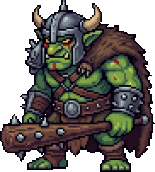
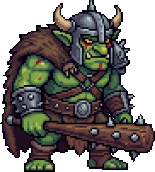
game-126 EMBERSPIRE v1.0.4: battle toggles keep their clicks; three sprites face the right way
The battle panel re-rendered on every turn start and animation end and
rebuilt the Auto / Climb / speed buttons each time, so a click whose
press and release straddled a re-render was lost (Auto wouldn't switch
off during enemy turns, 3x couldn't be clicked back to 1x). The toggle
row is now built once and relabelled. Browser test presses across a
re-render; fails without the fix.

Grubnak, Celestine and Thorne had been mirrored the wrong way in v1.0.0;
un-mirrored, every sprite rechecked at full size, FLIP is per sprite.

Claude-Session: https://claude.ai/code/session_01ScowixptJesxmHS1NHYaL5

diff --git a/game-126/js/ui.js b/game-126/js/ui.js
@@ -624,31 +624,48 @@ export class UI {
         this.G = G;
         const B = G.battle;
         const cmds = $('cmds');
-        cmds.replaceChildren();
         $('floor-tag').textContent = B ? `Floor ${B.floor} · ${biomeOf(B.floor).cycle ? 'Ascended ' : ''}${biomeOf(B.floor).biome.name} · ${fmt(G.gold)}g` : '';
-        if (!B) return;
+        if (!B) { cmds.replaceChildren(); return; }
         const busy = stage.busy || G.events.length > 0;
         const u = B.turn ? bunit(B, B.turn) : null;
-        const toggles = h('div.cmd-row', {},
-            h('button.btn.toggle' + (G.auto ? '.on' : ''), { 'data-k': 'auto', on: { click: () => this.send({ t: 'auto', on: !G.auto }) } }, `Auto ${G.auto ? 'ON' : 'off'}`),
-            h('button.btn.toggle' + (G.autoClimb ? '.on' : ''), { 'data-k': 'climb', title: 'Keep climbing after each victory while the party is healthy', on: { click: () => this.send({ t: 'autoClimb', on: !G.autoClimb }) } }, `Climb ${G.autoClimb ? 'ON' : 'off'}`),
-            h('button.btn', { 'data-k': 'speed', title: 'Battle speed', on: { click: () => this.cycleSpeed() } }, `${this.settings.speed}x`),
-            h('button.btn', { 'data-k': 'menu', 'aria-label': 'Menu', on: { click: () => { this.audio.ui('click'); this.openScreen('settings'); } } }, '☰'));
+        // The toggle row is built once and only relabelled. The panel re-renders every time a turn starts or an
+        // animation ends (many times a second at 3x); rebuilding these buttons then swallowed clicks that landed
+        // between press and release, so Auto, Climb and the speed seemed not to respond.
+        const t = this.toggleRow();
+        const set = (btn, on, label) => { btn.classList.toggle('on', on); btn.setAttribute('aria-pressed', String(on)); if (btn.textContent !== label) btn.textContent = label; };
+        set(t.auto, G.auto, `Auto ${G.auto ? 'ON' : 'off'}`);
+        set(t.climb, G.autoClimb, `Climb ${G.autoClimb ? 'ON' : 'off'}`);
+        if (t.speed.textContent !== `${this.settings.speed}x`) t.speed.textContent = `${this.settings.speed}x`;
+        let body;
         if (B.phase === 'input' && !busy && u && u.side === 'p') {
             stage.turn = u.uid;
-            cmds.append(this.commandMenu(G, u, stage));
+            body = this.commandMenu(G, u, stage);
         } else {
             stage.setPick(null);
             let msg = 'The battle is over.';
             if (B.phase === 'ai') msg = u && u.side === 'e' ? `${u.name} acts…` : `${u?.name ?? ''} acts on their own (auto)…`;
             else if (busy) msg = '…';
-            cmds.append(h('div.cmd-who', { text: msg }));
+            body = h('div.cmd-who', { text: msg });
         }
-        cmds.append(toggles);
+        // swap only the part above the toggles; the toggle row stays the same element
+        for (const el of [...cmds.children]) if (el !== t.row) el.remove();
+        cmds.prepend(body);
+        if (t.row.parentNode !== cmds) cmds.append(t.row);
         if (this.top() === null || this.top() === 'battle') {
             // keep keyboard focus inside the command window
             if (!cmds.contains(document.activeElement)) cmds.querySelector('button:not(:disabled)')?.focus({ preventScroll: true });
         }
+    }
+
+    /** Auto / Climb / speed / menu: one set of buttons for the whole session (see renderBattle). */
+    toggleRow() {
+        if (this._toggles) return this._toggles;
+        const auto = h('button.btn.toggle', { 'data-k': 'auto', on: { click: () => this.send({ t: 'auto', on: !this.G.auto }) } });
+        const climb = h('button.btn.toggle', { 'data-k': 'climb', title: 'Keep climbing after each victory while the party is healthy', on: { click: () => this.send({ t: 'autoClimb', on: !this.G.autoClimb }) } });
+        const speed = h('button.btn', { 'data-k': 'speed', title: 'Battle speed', on: { click: () => this.cycleSpeed() } });
+        const menu = h('button.btn', { 'data-k': 'menu', 'aria-label': 'Menu', on: { click: () => { this.audio.ui('click'); this.openScreen('settings'); } } }, '☰');
+        this._toggles = { row: h('div.cmd-row', {}, auto, climb, speed, menu), auto, climb, speed };
+        return this._toggles;
     }
 
     cycleSpeed() {

diff --git a/js/gamedata.js b/js/gamedata.js
@@ -1927,7 +1927,7 @@ const games = [
         description: "A 16-bit endless tower RPG with painted pixel art generated with fal and music, sound and voices generated with ElevenLabs. A black tower rose over the town of Hearthmere thirty years ago and nobody has seen its top. Climb it a floor at a time in side-view turn-based battles (charge-time turns, elements and weaknesses, poison, stun, haste and barriers, auto battle and auto-climb) against seventy kinds of monster across ten strata, from the Mossy Undercroft to the Skyreach Summit, with a mini boss every 5th floor and a true boss every 10th; past floor 100 the strata return Ascended and the climb never ends. Between climbs: recruit nine heroes at the tavern, evolve each into one of two advanced classes and ascend them, learn 108 skills, upgrade and reforge your gear and hunt sixteen uniques, take daily bounties at the guild, spend each evening with a companion in forty bond scenes (some of them romances) and claim a daily bonus and the town's idle tithe while you're away. Keyboard, gamepad or touch.",
         icon: '🗼',
         folder: 'game-126',
-        version: '1.0.3',
+        version: '1.0.4',
         cssClass: 'emberspire',
         genre: 'rpg',
         tags: [

diff --git a/game-126/js/config.js b/game-126/js/config.js
@@ -1,6 +1,6 @@
 // EMBERSPIRE — tuning and constants. Shared by the sim, the view and the tests.
 
-export const VERSION = '1.0.3';
+export const VERSION = '1.0.4';
 export const SAVE_KEY = 'emberspire.v1';
 
 export const STEP = 1 / 60;               // fixed step for pacing the battle (s)

diff --git a/game-126/dev/art/export.py b/game-126/dev/art/export.py
@@ -44,7 +44,10 @@ BGS_TOWN = ['town', 'tavern', 'tavern-night', 'smithy', 'shop', 'guild', 'temple
 CROP_BOTTOM = {'garden': 0.11}
 # The model didn't always draw the facing it was asked for. Heroes stand on the right and must face left;
 # monsters stand on the left and must face right. These were checked by eye on a contact sheet and are mirrored.
-FLIP = {'arin', 'grimble', 'lyra', 'pip', 'thorne', 'celestine', 'grubnak'}
+# sprites the model drew facing the wrong way (monsters face right, toward the party; heroes face left).
+# Judge at full size: at thumbnail size a three-quarter view is easy to misread (v1.0.4 un-mirrored grubnak,
+# celestine and thorne, which v1.0.0 had mirrored the wrong way).
+FLIP = {'arin', 'arin-evo', 'grimble', 'grimble-evo', 'lyra', 'lyra-evo', 'pip', 'pip-evo', 'thorne-evo'}
 ICON_SHEETS = ['gear', 'goods', 'uniques', 'misc']
 
 # longest side, in game pixels (the battle canvas is 640x360)
@@ -237,7 +240,7 @@ def main(raw):
             if not have(f):
                 print('missing', f); continue
             sp = trim(cutout(Image.open(os.path.join(raw, f))))
-            if h in FLIP: sp = sp.transpose(Image.FLIP_LEFT_RIGHT)
+            if (h if pre == 'spr' else h + '-evo') in FLIP: sp = sp.transpose(Image.FLIP_LEFT_RIGHT)
             # heroes are scaled by height so a halfling stays shorter than a half-orc
             tall = {'pip': 0.78, 'grimble': 0.86}.get(h, 1.0)
             s = SIZE['hero'] * tall / sp.height

diff --git a/status.md b/status.md
@@ -130,7 +130,7 @@ Completion audit of all games in this repo, based on each game's own game-plan.m
 | [game-123](game-123/index.html) | Atlas of Ink | **Solid** | v1.0.0. A cartographer's commission game in Canvas 2D with no asset files, in the sim/view layout. A pure seeded sim ([js/sim/](game-123/js/sim/)): a 72 × 44 island ([world.js](game-123/js/sim/world.js): value-noise elevation, biomes, rivers traced downhill, features, reefs placed on every harbour-to-harbour lane and checked so a lane remains), a hold-to-focus scrying spell ([game.js](game-123/js/sim/game.js): focus builds standing still and bleeds moving, sets radius and error, features need focus ≥ 0.35, ink is only overwritten by an equally steady cast), and six clients ([commission.js](game-123/js/sim/commission.js)) who use the chart for real: A\* over the player's map walked on the true terrain for the adventurer and the ship, F1 of plains for the farmer, finds for the prospector and pilgrim, accuracy for the king. The view ([view.js](game-123/js/view/view.js)) bakes parchment and ink layers (watercolour washes, symbols, inked coasts, pale unsure ink), draws icons, a feather quill with a focus ring and the client's journey, and follows the quill on phones. The title screen charts a map by itself with the bot. [simtest.mjs](game-123/dev/simtest.mjs) (purity, worlds over many seeds, every spell rule, every commission solvable and judged as described, round trips mid-cast and on a result, bots at three skill levels) and [browsertest.mjs](game-123/dev/browsertest.mjs) (desktop through a whole season with real keys, two touch-only phones with a second finger holding SCRY, blocked storage). Open: clocks and difficulty were tuned by a bot that sweeps everything, so the prospector and pilgrim are easy for it; the game has only run in headless Chromium and has not been played on a real phone; there is no mouse control |
 | [game-124](game-124/index.html) | Wrack & Wonder | **Solid** | v1.0.0. A first-person survival and research adventure in three.js r165 with seeded laws of magic, research instruments, a notebook that records only evidence, survival, Nib, three standing stones and a curse-breaking journey to free Elowen. [simtest.mjs](game-124/dev/simtest.mjs) checks 60 seeds, every gate, rule and puzzle, and a bot that frees Elowen; [browsertest.mjs](game-124/dev/browsertest.mjs) covers desktop, two touch-only phones, save/continue and blocked storage. Open: balance was tuned by a bot; only run under SwiftShader; not yet played on a real phone or GPU |
 | [game-125](game-125/index.html) | SEEDFALL | **Solid** | v1.0.1. TILLY now always faces you (billboards turn from their world position). A narrative first-person HD-2D sci-fi adventure in three.js r165 with idle terraforming, in the sim/view layout. A pure sim ([js/sim/](game-125/js/sim/)): a walkable crew deck ([layout.js](game-125/js/sim/layout.js)), a year clock that runs research, vats, harvesters and colonies on game days ([station.js](game-125/js/sim/station.js)), first-person bot drops onto six seeded zones whose creatures, hazards and plants follow how far each zone has been terraformed ([zonegen.js](game-125/js/sim/zonegen.js), [mission.js](game-125/js/sim/mission.js)), 23 genomes blended into strains scored against each zone's niche ([genetics.js](game-125/js/sim/genetics.js)), six bot generations, 25 research projects, VESPER's five black boxes, the Rootmother and a Purge/Concord choice, four endings, and a story told by TILLY in plain-data scenes ([story.js](game-125/js/sim/story.js)). The view draws every sprite with game-093's pixel painter as lit billboards under bloom, tilt-shift and a grade; the station's walls come from the same layout the sim walks. The DOM layer adds painted art generated with fal ([art/](game-125/art/README.md)): title key art, TILLY in five moods, VESPER, six zone cards and four ending illustrations. [simtest.mjs](game-125/dev/simtest.mjs) (purity, data reachability, a flood fill of the deck, every rule and ending, 360 zones proved reachable, round trips mid-mission and mid-sentence, a fuzz the bot must finish from, whole bot years) and [browsertest.mjs](game-125/dev/browsertest.mjs) (desktop with real keys through a whole loop and the ending, two touch-only phones, blocked storage, pixels read back). Open: balance was tuned by a bot whose clumsy and perfect versions finish within a few weeks of each other, so the clock may bite a person much harder; combat is simple; only run under SwiftShader, not yet played on a real phone or GPU |
-| [game-126](game-126/index.html) | EMBERSPIRE | **Solid** | v1.0.3. Town greetings play by themselves on the first 3 visits, then on a 🔊 by the portrait (a saved setting); v1.0.2: with Auto battle on, victory counts down 10 s and climbs on, never into a mini boss or boss; v1.0.1 put fighters on the floor. A 16-bit endless tower RPG in Canvas 2D and DOM, in the sim/view layout with a turn-based `act()` sim. A pure sim ([js/sim/](game-126/js/sim/)): charge-time turn-based battles with elements, statuses, boss enrage, auto battle and auto-climb ([battle.js](game-126/js/sim/battle.js)); an endless tower of ten strata with 70 monster designs, a mini boss every 5th floor and a boss every 10th, Ascended past 100 ([biomes.js](game-126/js/sim/data/biomes.js)); nine heroes, 27 classes, 108 skills, evolution and ascension ([heroes.js](game-126/js/sim/data/heroes.js)); gear with rarities, affixes, upgrades, reforging, 16 uniques and 8 keepsakes; the tavern, forge, market, guild, temple and treasury; 40 bond scenes; daily bounties and milestones; daily bonus, blessings, idle tithe and errands from real time passed in as numbers ([game.js](game-126/js/sim/game.js)). Art: 93 fal images cut out and downscaled to their native pixel grid ([dev/art/](game-126/dev/art/README.md)); audio: six music themes, 14 effects and 34 voice lines from ElevenLabs with a Web Audio synth fallback ([dev/audio/](game-126/dev/audio/README.md)). [simtest.mjs](game-126/dev/simtest.mjs) (880 checks: purity, art for every entity, every floor to 300, every rule, determinism and mid-battle round trips, a whole-game bot at two diligence levels with balance bands) and [browsertest.mjs](game-126/dev/browsertest.mjs) (desktop with real keys through a climb, an evening and a save, the generated audio playing, two touch-only phones, blocked storage). Open: balance was tuned by a bot and past floor 70 is extrapolated; not yet played by a person or on a real phone; voice-line cuts checked by length, not by ear |
+| [game-126](game-126/index.html) | EMBERSPIRE | **Solid** | v1.0.4. Auto, Climb and speed clicks no longer get lost mid-battle; Grubnak, Celestine and Thorne face the right way. v1.0.3: Town greetings play by themselves on the first 3 visits, then on a 🔊 by the portrait (a saved setting); v1.0.2: with Auto battle on, victory counts down 10 s and climbs on, never into a mini boss or boss; v1.0.1 put fighters on the floor. A 16-bit endless tower RPG in Canvas 2D and DOM, in the sim/view layout with a turn-based `act()` sim. A pure sim ([js/sim/](game-126/js/sim/)): charge-time turn-based battles with elements, statuses, boss enrage, auto battle and auto-climb ([battle.js](game-126/js/sim/battle.js)); an endless tower of ten strata with 70 monster designs, a mini boss every 5th floor and a boss every 10th, Ascended past 100 ([biomes.js](game-126/js/sim/data/biomes.js)); nine heroes, 27 classes, 108 skills, evolution and ascension ([heroes.js](game-126/js/sim/data/heroes.js)); gear with rarities, affixes, upgrades, reforging, 16 uniques and 8 keepsakes; the tavern, forge, market, guild, temple and treasury; 40 bond scenes; daily bounties and milestones; daily bonus, blessings, idle tithe and errands from real time passed in as numbers ([game.js](game-126/js/sim/game.js)). Art: 93 fal images cut out and downscaled to their native pixel grid ([dev/art/](game-126/dev/art/README.md)); audio: six music themes, 14 effects and 34 voice lines from ElevenLabs with a Web Audio synth fallback ([dev/audio/](game-126/dev/audio/README.md)). [simtest.mjs](game-126/dev/simtest.mjs) (880 checks: purity, art for every entity, every floor to 300, every rule, determinism and mid-battle round trips, a whole-game bot at two diligence levels with balance bands) and [browsertest.mjs](game-126/dev/browsertest.mjs) (desktop with real keys through a climb, an evening and a save, the generated audio playing, two touch-only phones, blocked storage). Open: balance was tuned by a bot and past floor 70 is extrapolated; not yet played by a person or on a real phone; voice-line cuts checked by length, not by ear |
 
 ## Key takeaways
 

diff --git a/CHANGELOG.md b/CHANGELOG.md
@@ -7,6 +7,9 @@ and this project adheres to [Semantic Versioning](https://semver.org/spec/v2.0.0
 
 ## [Unreleased]
 
+### Fixed
+- **EMBERSPIRE** (game-126) v1.0.4: Auto, Climb and the battle speed button ignored many clicks once a battle was moving, worst at 3x: Auto wouldn't switch off during the monsters' turns, a second click then flipped it the wrong way (so the auto-climb countdown never came when you thought Auto was back on), and 3x couldn't be clicked back to 1x. The battle panel re-rendered whenever a turn started or an animation ended and rebuilt these buttons each time, so a click whose press and release straddled a re-render was lost; the toggle row is now built once and only relabelled ([ui.js](game-126/js/ui.js)). [browsertest.mjs](game-126/dev/browsertest.mjs) presses Auto and the speed button with a re-render between mouse down and up; both fail without the fix. Also, three sprites mirrored by mistake in v1.0.0 faced the wrong way in battle: Grubnak (the floor 5 mini boss) and Celestine (the floor 80 boss) now face the party and Thorne faces the monsters; every monster and hero sprite was rechecked at full size ([export.py](game-126/dev/art/export.py)). Reported by a player.
+
 ### Changed
 - **EMBERSPIRE** (game-126) v1.0.3: the townsfolk's spoken greetings got tiring after a few visits. Each greeting now plays by itself on the first 3 visits to that building and then stays quiet; a round 🔊 button on the shopkeeper's portrait plays it again on demand ([ui.js](game-126/js/ui.js)). Settings has a new "Town greetings" choice (First 3 visits, Every visit, Only when I tap 🔊), saved in localStorage with the per-greeting counts ([save.js](game-126/js/save.js)). The speech bubble now shows the line that is spoken, with the day's line under it, and on phones building screens start below the two-row top bar. Battle voices are unchanged. Tested in [browsertest.mjs](game-126/dev/browsertest.mjs) (Bram speaks 3 times over repeated visits and the count is saved, the 🔊 replays him, "Only when I tap" keeps Hilde quiet and is saved).
 

diff --git a/game-126/game-plan.md b/game-126/game-plan.md
@@ -2,7 +2,7 @@
 
 **Genre:** 16-bit endless-tower JRPG: turn-based party battles, a town of RPG systems, bonds, and idle income
 **Engine:** Vanilla JS: Canvas 2D battle stage (640x360, nearest-neighbour) and DOM menus. Art generated with fal, music, effects and voices with ElevenLabs; a Web Audio synth is the fallback for any sound file that fails to load
-**Status:** v1.0.3
+**Status:** v1.0.4
 
 ---
 
@@ -156,6 +156,10 @@ still defeated sometimes.
 - The Garden preview image is the title art.
 
 ## Changelog
+
+### v1.0.4 (2026-11-10)
+- Fixed: Auto, Climb and the speed button often ignored clicks once a battle was moving, worst at 3x: switching Auto off during the monsters' turns didn't take, a second click then flipped it the wrong way (so Auto was off when you thought you had turned it back on, and the auto-climb countdown never came), and 3x couldn't be clicked back to 1x. The battle panel re-rendered every time a turn started or an animation ended, many times a second at 3x, and rebuilt these buttons each time, so a click whose press and release straddled a re-render was lost. The toggle row is now built once and only relabelled.
+- Fixed: three sprites faced the wrong way in battle because v1.0.0 mirrored them by mistake: Grubnak (the floor 5 mini boss) and Celestine (the floor 80 boss) faced away from the party, and Thorne faced away from the monsters. All 70 monsters and 18 hero sprites were rechecked at full size; the mirror list in `dev/art/export.py` is now per sprite.
 
 ### v1.0.3 (2026-11-10)
 - Changed: the townsfolk's spoken greetings got tiring after a few visits. Each greeting now plays by itself on the first 3 visits to that building, then stays quiet; a round 🔊 button on the shopkeeper's portrait plays it again whenever you like. Settings has a new "Town greetings" choice (First 3 visits, Every visit, Only when I tap 🔊), and both the choice and the per-greeting count are saved with the other settings. Battle voices are unchanged.
